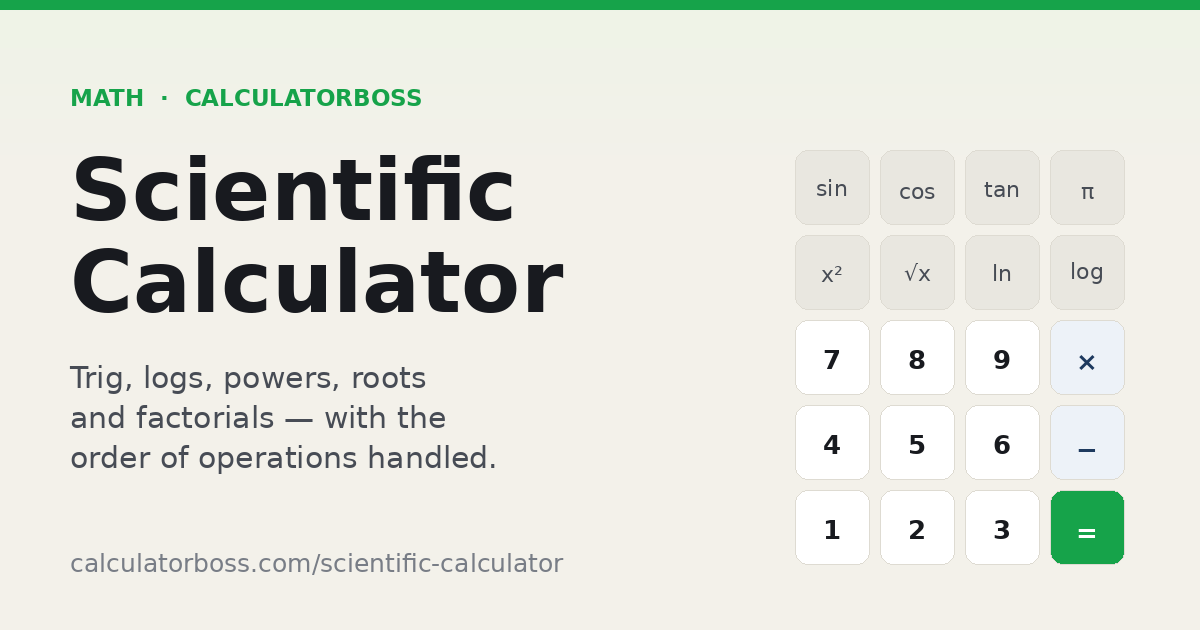
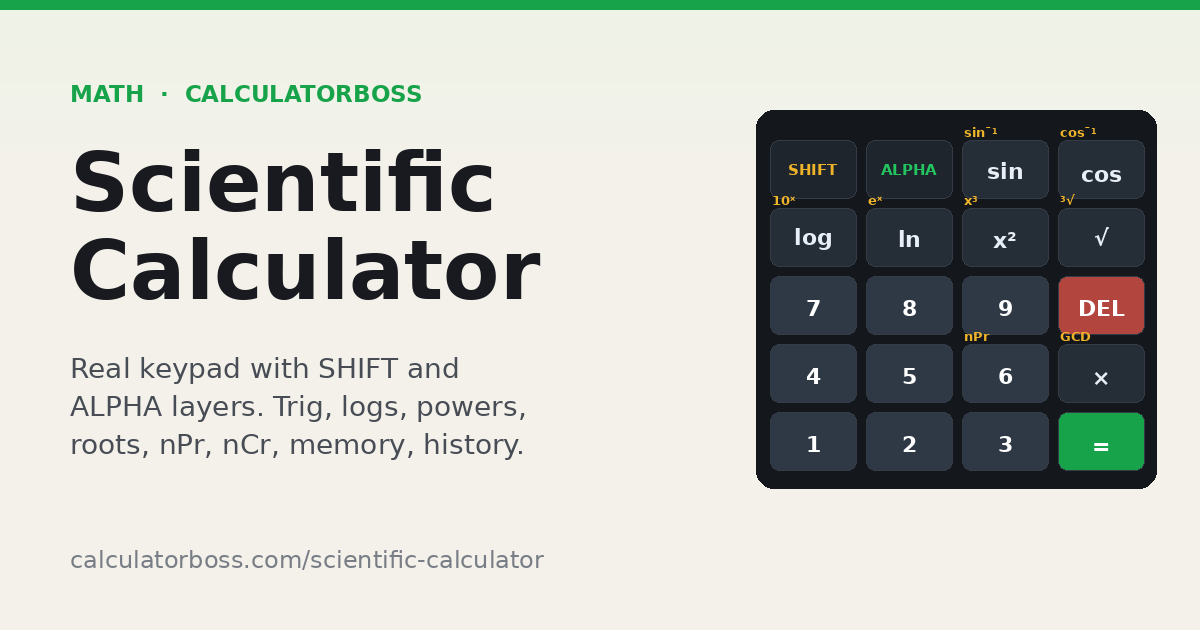
Fix five dead digit keys, reorder the columns, and rework the on-page SEO
The screenshot showed 7, 8, 4, 1, 3 and minus rendered dim -- and they were
genuinely dead. Those keys carry an unbuilt SHIFT function, and marking the key
as unavailable blocked its printed function too, so you could not type five
digits or subtract. Availability is now split: the printed function and the
layer function are refused independently.

Every suite passed while this was broken, because they all call press() and the
bug was in hit(), one layer above. The new human-use suite enters where the user
does and asserts every digit types.

Columns reordered as asked: calculator, variables, history. Two stale grid-area
names left in the media queries were caught by the grid checker.

Human-use pass: 47 whole tasks typed key by key with answers derived
independently -- homework problems, memory as a running total, storing a
constant, fixing a digit mid-line, and six cases that must refuse rather than
lie.

SEO: keyword research against the ranking set, new title and description around
the head term plus the no-download modifier, 14 researched keywords, a new
audience section, and two FAQs on real queries. Nothing claimed that is not
built -- fractions are the biggest term in this niche and the page still says
it does not have them.

diff --git a/scientific-calculator/index.html b/scientific-calculator/index.html
@@ -7,7 +7,7 @@
 
   gtag('config', 'G-6S04GMEMEJ');
 </script>
-<meta charSet="utf-8"/><link rel="preconnect" href="/" crossorigin=""/><meta name="viewport" content="width=device-width, initial-scale=1"/><title>Scientific Calculator | SHIFT Keys, Trig, Log and Roots</title><meta name="description" content="Free scientific calculator with a real keypad: SHIFT and ALPHA layers, a movable cursor, trig, logs, powers, roots, factorials, memory and timed history."/><meta name="author" content="CalculatorBoss"/><meta name="keywords" content="scientific calculator,scientific calculator online,free scientific calculator,trig calculator,sin cos tan calculator,log and ln calculator,factorial calculator,deg rad calculator,online calculator with parentheses"/><meta name="creator" content="CalculatorBoss"/><meta name="publisher" content="CalculatorBoss"/><meta name="robots" content="index, follow"/><meta name="googlebot" content="index, follow, max-video-preview:-1, max-image-preview:large, max-snippet:-1"/><link rel="canonical" href="https://calculatorboss.com/scientific-calculator/"/><meta property="og:title" content="Scientific Calculator | SHIFT Keys, Trig, Log and Roots"/><meta property="og:description" content="Free scientific calculator with a real keypad: SHIFT and ALPHA layers, a movable cursor, trig, logs, powers, roots, factorials, memory and timed history."/><meta property="og:url" content="https://calculatorboss.com/scientific-calculator/"/><meta property="og:image" content="https://calculatorboss.com/og/scientific-calculator.png"/><meta property="og:image:width" content="1200"/><meta property="og:image:height" content="630"/><meta name="twitter:card" content="summary_large_image"/><meta name="twitter:image" content="https://calculatorboss.com/og/scientific-calculator.png"/><meta name="twitter:title" content="Scientific Calculator | SHIFT Keys, Trig, Log and Roots"/><meta name="twitter:description" content="Free scientific calculator with a real keypad: SHIFT and ALPHA layers, a movable cursor, trig, logs, powers, roots, factorials, memory and timed history."/><link rel="icon" href="/favicon.svg" type="image/svg+xml"><link rel="icon" href="/favicon.ico" sizes="any"><link rel="apple-touch-icon" href="/favicon-180.png"><link rel="stylesheet" href="/_next/static/chunks/27gnqssi3_kmiv2.css" data-precedence="next"/><link rel="preload" as="script" fetchPriority="low" href="/_next/static/chunks/36m08sdd6fi_4.js"/><link rel="preconnect" href="https://fonts.gstatic.com" crossorigin>
+<meta charSet="utf-8"/><link rel="preconnect" href="/" crossorigin=""/><meta name="viewport" content="width=device-width, initial-scale=1"/><title>Scientific Calculator Online | Free, No Download, Full Keypad</title><meta name="description" content="Free online scientific calculator with a real SHIFT and ALPHA keypad: trig, logs, powers, roots, nPr, nCr, memory and history. No download, no signup."/><meta name="author" content="CalculatorBoss"/><meta name="keywords" content="scientific calculator,scientific calculator online,free scientific calculator,online scientific calculator no download,sin cos tan calculator,log and ln calculator,npr ncr calculator,scientific calculator with history,deg rad calculator,scientific calculator with memory,factorial calculator,gcd lcm calculator,scientific calculator for students,order of operations calculator"/><meta name="creator" content="CalculatorBoss"/><meta name="publisher" content="CalculatorBoss"/><meta name="robots" content="index, follow"/><meta name="googlebot" content="index, follow, max-video-preview:-1, max-image-preview:large, max-snippet:-1"/><link rel="canonical" href="https://calculatorboss.com/scientific-calculator/"/><meta property="og:title" content="Scientific Calculator Online | Free, No Download, Full Keypad"/><meta property="og:description" content="Free online scientific calculator with a real SHIFT and ALPHA keypad: trig, logs, powers, roots, nPr, nCr, memory and history. No download, no signup."/><meta property="og:url" content="https://calculatorboss.com/scientific-calculator/"/><meta property="og:image" content="https://calculatorboss.com/og/scientific-calculator.png"/><meta property="og:image:width" content="1200"/><meta property="og:image:height" content="630"/><meta name="twitter:card" content="summary_large_image"/><meta name="twitter:image" content="https://calculatorboss.com/og/scientific-calculator.png"/><meta name="twitter:title" content="Scientific Calculator Online | Free, No Download, Full Keypad"/><meta name="twitter:description" content="Free online scientific calculator with a real SHIFT and ALPHA keypad: trig, logs, powers, roots, nPr, nCr, memory and history. No download, no signup."/><link rel="icon" href="/favicon.svg" type="image/svg+xml"><link rel="icon" href="/favicon.ico" sizes="any"><link rel="apple-touch-icon" href="/favicon-180.png"><link rel="stylesheet" href="/_next/static/chunks/27gnqssi3_kmiv2.css" data-precedence="next"/><link rel="preload" as="script" fetchPriority="low" href="/_next/static/chunks/36m08sdd6fi_4.js"/><link rel="preconnect" href="https://fonts.gstatic.com" crossorigin>
 <link href="https://fonts.googleapis.com/css2?family=IBM+Plex+Sans:wght@400;500;600;700&family=IBM+Plex+Mono:wght@400;500;600;700&display=swap" rel="stylesheet">
 <style>
   /* ============================================================
@@ -351,15 +351,15 @@
   </script>
 </header><main class="flex-1" role="main"><div class="px-4 sm:px-6 py-8 sm:py-10 mx-auto" style="max-width:1160px">
 <script type="application/ld+json">{"@context":"https://schema.org","@type":"WebApplication","name":"Scientific Calculator","url":"https://calculatorboss.com/scientific-calculator/","applicationCategory":"UtilitiesApplication","operatingSystem":"Any","description":"A free online scientific calculator with a hardware-style keypad, SHIFT and ALPHA function layers, trigonometry, logarithms, powers, roots, factorials, memory and calculation history.","offers":{"@type":"Offer","price":"0","priceCurrency":"USD"}}</script>
-<script type="application/ld+json">{"@context":"https://schema.org","@type":"FAQPage","mainEntity":[{"@type":"Question","name":"What do the SHIFT and ALPHA keys do?","acceptedAnswer":{"@type":"Answer","text":"They are layer keys, exactly as on a physical scientific calculator. Every key carries a small yellow label above it and some carry a green one too. Press SHIFT and the next key you touch runs its yellow function, so SHIFT then sin gives sin inverse. Press ALPHA and the next key runs its green function. Both cancel after a single press, and pressing the same layer key again turns it off."}},{"@type":"Question","name":"Why does this calculator give 14 for 2 + 3 x 4?","acceptedAnswer":{"@type":"Answer","text":"Because multiplication is resolved before addition. The calculator reads the whole expression before answering, so 3 x 4 is settled first and 2 is added to the 12. A basic four-function calculator answers each key press in turn and returns 20 instead. If you want the addition first, wrap it in brackets."}},{"@type":"Question","name":"How do I edit a number in the middle of a long expression?","acceptedAnswer":{"@type":"Answer","text":"Use the left and right arrow keys to walk the cursor through what you have typed, then type or delete at that point. DEL removes the entry immediately to the left of the cursor rather than clearing the line, so a single mistyped digit in a long calculation costs one keystroke to fix instead of starting again."}},{"@type":"Question","name":"What is the difference between DEG and RAD mode?","acceptedAnswer":{"@type":"Answer","text":"They are two units for the same angle. A full turn is 360 degrees or 2 pi radians, so the number 30 means a thirty-degree angle in DEG and a much larger angle in RAD. sin 30 returns 0.5 in DEG and -0.988031624093 in RAD. The current mode is shown in the status strip above the keypad, and it is the first thing to check whenever a trig answer looks wrong."}},{"@type":"Question","name":"What is PreAns?","acceptedAnswer":{"@type":"Answer","text":"Ans holds your most recent result and PreAns holds the one before it, so you can reach back two steps without writing anything down. Both are listed in the Variable panel beside the keypad, and PreAns sits on the yellow layer of the Ans key."}},{"@type":"Question","name":"Can I use my keyboard instead of the on-screen keys?","acceptedAnswer":{"@type":"Answer","text":"Yes. Digits, a decimal point, plus, minus, asterisk, slash, caret and brackets type straight in. Enter evaluates, Backspace deletes at the cursor, Escape clears the line, the arrow keys move the cursor, and Shift toggles the yellow layer. The full list is in the keyboard reference under the calculator."}}]}</script>
+<script type="application/ld+json">{"@context":"https://schema.org","@type":"FAQPage","mainEntity":[{"@type":"Question","name":"What do the SHIFT and ALPHA keys do?","acceptedAnswer":{"@type":"Answer","text":"They are layer keys, exactly as on a physical scientific calculator. Every key carries a small yellow label above it and some carry a green one too. Press SHIFT and the next key you touch runs its yellow function, so SHIFT then sin gives sin inverse. Press ALPHA and the next key runs its green function. Both cancel after a single press, and pressing the same layer key again turns it off."}},{"@type":"Question","name":"Why does this calculator give 14 for 2 + 3 x 4?","acceptedAnswer":{"@type":"Answer","text":"Because multiplication is resolved before addition. The calculator reads the whole expression before answering, so 3 x 4 is settled first and 2 is added to the 12. A basic four-function calculator answers each key press in turn and returns 20 instead. If you want the addition first, wrap it in brackets."}},{"@type":"Question","name":"How do I edit a number in the middle of a long expression?","acceptedAnswer":{"@type":"Answer","text":"Use the left and right arrow keys to walk the cursor through what you have typed, then type or delete at that point. DEL removes the entry immediately to the left of the cursor rather than clearing the line, so a single mistyped digit in a long calculation costs one keystroke to fix instead of starting again."}},{"@type":"Question","name":"What is the difference between DEG and RAD mode?","acceptedAnswer":{"@type":"Answer","text":"They are two units for the same angle. A full turn is 360 degrees or 2 pi radians, so the number 30 means a thirty-degree angle in DEG and a much larger angle in RAD. sin 30 returns 0.5 in DEG and -0.988031624093 in RAD. The current mode is shown in the status strip above the keypad, and it is the first thing to check whenever a trig answer looks wrong."}},{"@type":"Question","name":"What is PreAns?","acceptedAnswer":{"@type":"Answer","text":"Ans holds your most recent result and PreAns holds the one before it, so you can reach back two steps without writing anything down. Both are listed in the Variable panel beside the keypad, and PreAns sits on the yellow layer of the Ans key."}},{"@type":"Question","name":"Can I use my keyboard instead of the on-screen keys?","acceptedAnswer":{"@type":"Answer","text":"Yes. Digits, a decimal point, plus, minus, asterisk, slash, caret and brackets type straight in. Enter evaluates, Backspace deletes at the cursor, Escape clears the line, the arrow keys move the cursor, and Shift toggles the yellow layer. The full list is in the keyboard reference under the calculator."}},{"@type":"Question","name":"Is this the same as a Casio fx-991 or a TI-30X?","acceptedAnswer":{"@type":"Answer","text":"It is not an emulator of any particular model and it is not made by, or connected to, any calculator manufacturer. What it shares is the layout convention those machines use: a yellow SHIFT layer, a green ALPHA layer, and keys in broadly the familiar places. That is enough for the keystroke habits to carry over, which is the practical reason to use it for revision."}},{"@type":"Question","name":"Can I use this in an exam?","acceptedAnswer":{"@type":"Answer","text":"No, and no browser-based calculator is. Exam boards require an approved non-programmable physical device and prohibit anything with internet access. Use this for homework and for practising the key sequences, then take your permitted calculator into the exam room."}}]}</script>
 <style>
 .sci-crumb{display:flex;align-items:center;gap:8px;font-size:12.5px;color:var(--muted);margin:0 0 10px;flex-wrap:wrap}
 .sci-crumb a{color:var(--muted);transition:.2s}.sci-crumb a:hover{color:var(--ink)}
 .sci-crumb .sep{color:var(--ink-faint)}.sci-crumb .cur{color:var(--ink-soft);font-weight:500}
 
 /* ---- layout ---- */
-.sci-grid{display:grid;gap:16px;grid-template-columns:minmax(0,1fr) 392px 290px;grid-template-areas:"panel calc side" "bottomgrid bottomgrid bottomgrid";align-items:stretch;margin-top:6px}
-.sci-panel{grid-area:panel}.sci-unit{grid-area:calc}.sci-side{grid-area:side}
+.sci-grid{display:grid;gap:16px;grid-template-columns:392px minmax(0,1fr) minmax(0,1.15fr);grid-template-areas:"calc vars hist" "bottomgrid bottomgrid bottomgrid";align-items:stretch;margin-top:6px}
+.sci-unit{grid-area:calc}.sci-vars{grid-area:vars}.sci-hist{grid-area:hist}
 .sci-bottom{grid-area:bottomgrid;display:grid;grid-template-columns:repeat(2,minmax(0,1fr));gap:16px;scroll-margin-top:88px}
 
 /* ---- the calculator body ---- */
@@ -414,6 +414,7 @@
 .sci-eq{background:#16A34A;border-color:#16A34A;color:#fff;font-size:18px}
 .sci-eq:hover{background:#128A3D;border-color:#128A3D}
 .sci-k-soon{opacity:.42}
+.sci-k[data-soon-s]+.sci-lbl .s,.sci-kw:has(.sci-k[data-soon-s]) .sci-lbl .s{opacity:.45}
 .sci-k-soon:hover{background:#252D37}
 /* D-pad */
 .sci-dpadwrap{display:flex;align-items:center;justify-content:center}
@@ -426,6 +427,7 @@
 
 /* ---- side panels ---- */
 .sci-card{background:var(--surface);border:1px solid var(--border);border-radius:16px;overflow:hidden;display:flex;flex-direction:column;min-height:0}
+.sci-phead{padding:12px 16px;font-size:13px;font-weight:700;color:var(--ink);background:var(--surface-sunken);border-bottom:1px solid var(--border);flex-shrink:0}
 .sci-tabs{display:flex;border-bottom:1px solid var(--border);background:var(--surface-sunken);flex-shrink:0}
 .sci-tab{flex:1;border:none;background:transparent;padding:11px 8px;font-size:13px;font-weight:600;color:var(--muted);cursor:pointer;border-bottom:2px solid transparent;transition:.16s}
 .sci-tab[aria-selected="true"]{color:var(--ink);border-bottom-color:#16A34A;background:var(--surface)}
@@ -463,6 +465,7 @@
 .sci-rlist a{display:block;padding:10px 8px;color:var(--ink-soft);font-size:13px;text-decoration:none;transition:.16s;border-radius:8px}
 .sci-rlist a:hover{background:var(--surface-sunken);color:#128A3D}
 .sci-bcard{background:var(--surface);border:1px solid var(--border);border-radius:16px;overflow:hidden}
+.sci-bbody{padding:4px 12px 10px}
 .sci-bhead{background:var(--surface-sunken);border-bottom:1px solid var(--border);padding:11px 16px;font-size:13px;font-weight:700;color:var(--ink)}
 .sci-btable{width:100%;border-collapse:collapse;font-size:13px}
 .sci-btable th,.sci-btable td{padding:8px 16px;text-align:left;border-bottom:1px solid var(--border-fine);vertical-align:top}
@@ -489,39 +492,18 @@
 .sci-note p{margin:0;font-size:14px}
 .sci-disc{font-size:12.5px;line-height:1.7;color:var(--muted);border-top:1px solid var(--border-fine);margin-top:34px;padding-top:16px}
 
-@media(max-width:1040px){.sci-grid{grid-template-columns:minmax(0,1fr) 380px;grid-template-areas:"panel calc" "side side" "bottomgrid bottomgrid"}}
-@media(max-width:800px){.sci-grid{grid-template-columns:1fr;grid-template-areas:"calc" "panel" "side" "bottomgrid";align-items:start}.sci-pbody{max-height:420px}.sci-padbot{flex:none}.sci-padbot .sci-k{height:auto}.sci-bottom{grid-template-columns:1fr}.sci-body{padding:11px}.sci-padtop,.sci-padbot{gap:4px}.sci-k{min-height:40px;font-size:12px}.sci-num{font-size:15px}.sci-lcd{height:210px}.sci-lbl{height:11px;font-size:8px}}
+@media(max-width:1040px){.sci-grid{grid-template-columns:380px minmax(0,1fr);grid-template-areas:"calc vars" "hist hist" "bottomgrid bottomgrid"}}
+@media(max-width:800px){.sci-grid{grid-template-columns:1fr;grid-template-areas:"calc" "hist" "vars" "bottomgrid";align-items:start}.sci-pbody{max-height:420px}.sci-padbot{flex:none}.sci-padbot .sci-k{height:auto}.sci-bottom{grid-template-columns:1fr}.sci-body{padding:11px}.sci-padtop,.sci-padbot{gap:4px}.sci-k{min-height:40px;font-size:12px}.sci-num{font-size:15px}.sci-lcd{height:210px}.sci-lbl{height:11px;font-size:8px}}
 </style>
 
 <nav class="sci-crumb" aria-label="Breadcrumb"><a href="/">Home</a><span class="sep">/</span><a href="/all-calculators/#mat">Math</a><span class="sep">/</span><span class="cur">Scientific Calculator</span></nav>
 
 <h1 class="font-display font-bold text-3xl sm:text-4xl tracking-tight text-ink mb-3">Scientific Calculator</h1>
-<p class="text-ink-soft text-lg max-w-2xl mb-5">A hardware-style keypad with SHIFT and ALPHA layers, a cursor you can move through the line, and every answer kept in a history you can tap back into.</p>
+<p class="text-ink-soft text-lg max-w-2xl mb-5">A free online scientific calculator with a real keypad &mdash; SHIFT and ALPHA layers, trigonometry, logarithms, powers, roots, nPr and nCr, memory and a timed history. Nothing to download, no signup.</p>
 
 <div class="sci-grid">
 
-  <!-- ============ left: history / variables ============ -->
-  <div class="sci-panel sci-card">
-    <div class="sci-tabs" role="tablist">
-      <button type="button" class="sci-tab" id="sci-tabH" role="tab" aria-selected="true" aria-controls="sci-paneH">History</button>
-      <button type="button" class="sci-tab" id="sci-tabV" role="tab" aria-selected="false" aria-controls="sci-paneV">Variable</button>
-    </div>
-    <div class="sci-pbody" id="sci-paneH" role="tabpanel" aria-labelledby="sci-tabH">
-      <p class="sci-pempty">Nothing calculated yet.<br>Every answer lands here with the time, and tapping a line puts it back on the screen.</p>
-    </div>
-    <div class="sci-pbody" id="sci-paneV" role="tabpanel" aria-labelledby="sci-tabV" hidden>
-      <div class="sci-vrow"><span class="sci-vn">Ans</span><span class="sci-vv empty" id="sci-vAns">not set</span></div>
-      <div class="sci-vrow"><span class="sci-vn">PreAns</span><span class="sci-vv empty" id="sci-vPre">not set</span></div>
-      <div class="sci-vrow"><span class="sci-vn">M</span><span class="sci-vv empty" id="sci-vM">0</span></div>
-      <div id="sci-varbox"></div>
-    </div>
-    <div class="sci-pfoot">
-      <button type="button" class="sci-pbtn" id="sci-clearh" disabled>Clear history</button>
-      <button type="button" class="sci-pbtn" id="sci-pdfbtn" disabled>Save as PDF</button>
-    </div>
-  </div>
-
-  <!-- ============ centre: the calculator ============ -->
+  <!-- ============ left: the calculator ============ -->
   <div class="sci-unit sci-card">
     <div class="sci-body">
       <div class="sci-lcd" id="sci-lcd">
@@ -573,21 +555,21 @@
       <div class="sci-kw"><span class="sci-lbl"><span class="s">M−</span><span class="a">M</span></span><button type="button" class="sci-k" data-k="M+" data-s="M-" data-a="VM">M+</button></div>
       </div>
       <div class="sci-padbot" id="sci-padbot">
-      <div class="sci-kw"><span class="sci-lbl"><span class="s">CONST</span><span class="a"></span></span><button type="button" class="sci-k sci-num sci-k-soon" data-k="7" data-soon="5">7</button></div>
-      <div class="sci-kw"><span class="sci-lbl"><span class="s">CONV</span><span class="a"></span></span><button type="button" class="sci-k sci-num sci-k-soon" data-k="8" data-soon="5">8</button></div>
+      <div class="sci-kw"><span class="sci-lbl"><span class="s">CONST</span><span class="a"></span></span><button type="button" class="sci-k sci-num" data-k="7" data-soon-s="5">7</button></div>
+      <div class="sci-kw"><span class="sci-lbl"><span class="s">CONV</span><span class="a"></span></span><button type="button" class="sci-k sci-num" data-k="8" data-soon-s="5">8</button></div>
       <div class="sci-kw"><span class="sci-lbl"><span class="s"></span><span class="a"></span></span><button type="button" class="sci-k sci-num" data-k="9">9</button></div>
       <div class="sci-kw"><span class="sci-lbl"><span class="s"></span><span class="a"></span></span><button type="button" class="sci-k sci-del" data-k="DEL">DEL</button></div>
       <div class="sci-kw"><span class="sci-lbl"><span class="s"></span><span class="a"></span></span><button type="button" class="sci-k sci-ac" data-k="AC">AC</button></div>
-      <div class="sci-kw"><span class="sci-lbl"><span class="s">MATRIX</span><span class="a"></span></span><button type="button" class="sci-k sci-num sci-k-soon" data-k="4" data-soon="4">4</button></div>
+      <div class="sci-kw"><span class="sci-lbl"><span class="s">MATRIX</span><span class="a"></span></span><button type="button" class="sci-k sci-num" data-k="4" data-soon-s="4">4</button></div>
       <div class="sci-kw"><span class="sci-lbl"><span class="s"></span><span class="a"></span></span><button type="button" class="sci-k sci-num" data-k="5">5</button></div>
       <div class="sci-kw"><span class="sci-lbl"><span class="s">nPr</span><span class="a"></span></span><button type="button" class="sci-k sci-num" data-k="6" data-s="nPr">6</button></div>
       <div class="sci-kw"><span class="sci-lbl"><span class="s">GCD</span><span class="a"></span></span><button type="button" class="sci-k" data-k="*" data-s="gcd">×</button></div>
       <div class="sci-kw"><span class="sci-lbl"><span class="s">nCr</span><span class="a">LCM</span></span><button type="button" class="sci-k" data-k="/" data-s="nCr" data-a="lcm">÷</button></div>
-      <div class="sci-kw"><span class="sci-lbl"><span class="s">CMPLX</span><span class="a"></span></span><button type="button" class="sci-k sci-num sci-k-soon" data-k="1" data-soon="4">1</button></div>
+      <div class="sci-kw"><span class="sci-lbl"><span class="s">CMPLX</span><span class="a"></span></span><button type="button" class="sci-k sci-num" data-k="1" data-soon-s="4">1</button></div>
       <div class="sci-kw"><span class="sci-lbl"><span class="s"></span><span class="a"></span></span><button type="button" class="sci-k sci-num" data-k="2">2</button></div>
-      <div class="sci-kw"><span class="sci-lbl"><span class="s">Pol</span><span class="a"></span></span><button type="button" class="sci-k sci-num sci-k-soon" data-k="3" data-soon="4">3</button></div>
+      <div class="sci-kw"><span class="sci-lbl"><span class="s">Pol</span><span class="a"></span></span><button type="button" class="sci-k sci-num" data-k="3" data-soon-s="4">3</button></div>
       <div class="sci-kw"><span class="sci-lbl"><span class="s">mod</span><span class="a"></span></span><button type="button" class="sci-k" data-k="+" data-s="mod">+</button></div>
-      <div class="sci-kw"><span class="sci-lbl"><span class="s">Rec</span><span class="a"></span></span><button type="button" class="sci-k sci-k-soon" data-k="-" data-soon="4">−</button></div>
+      <div class="sci-kw"><span class="sci-lbl"><span class="s">Rec</span><span class="a"></span></span><button type="button" class="sci-k" data-k="-" data-soon-s="4">−</button></div>
       <div class="sci-kw"><span class="sci-lbl"><span class="s">Ran#</span><span class="a"></span></span><button type="button" class="sci-k sci-num" data-k="0" data-s="RND">0</button></div>
       <div class="sci-kw"><span class="sci-lbl"><span class="s">RanInt</span><span class="a"></span></span><button type="button" class="sci-k sci-num" data-k="." data-s="RANINT">.</button></div>
       <div class="sci-kw"><span class="sci-lbl"><span class="s">π</span><span class="a">e</span></span><button type="button" class="sci-k" data-k="EXP" data-s="PI" data-a="EU">×10<sup>x</sup></button></div>
@@ -599,13 +581,36 @@
   </div>
 
   <!-- ============ right: related ============ -->
-  <div class="sci-side sci-card">
+  <!-- ============ middle: variables ============ -->
+  <div class="sci-vars sci-card">
+    <div class="sci-phead">Variables</div>
+    <div class="sci-pbody" id="sci-paneV">
+      <div class="sci-vrow"><span class="sci-vn">Ans</span><span class="sci-vv empty" id="sci-vAns">not set</span></div>
+      <div class="sci-vrow"><span class="sci-vn">PreAns</span><span class="sci-vv empty" id="sci-vPre">not set</span></div>
+      <div class="sci-vrow"><span class="sci-vn">M</span><span class="sci-vv empty" id="sci-vM">0</span></div>
+      <div id="sci-varbox"></div>
+    </div>
+    <p class="sci-pnote">Press STO then a letter to store the value on screen. <span class="sci-yl">SHIFT</span> then STO recalls it.</p>
+  </div>
+
+  <!-- ============ right: history ============ -->
+  <div class="sci-hist sci-card">
+    <div class="sci-phead">History</div>
+    <div class="sci-pbody" id="sci-paneH"><p class="sci-pempty">Nothing calculated yet.<br>Every answer lands here with the time, and tapping a line puts it back on the screen.</p></div>
+    <div class="sci-pfoot">
+      <button type="button" class="sci-pbtn" id="sci-clearh" disabled>Clear</button>
+      <button type="button" class="sci-pbtn" id="sci-pdfbtn" disabled>Save as PDF</button>
+    </div>
+  </div>
+
+  <div class="sci-bottom" id="sci-bottom">
+  <div class="sci-bcard">
     <div class="sci-tabs" role="tablist">
       <button type="button" class="sci-tab" id="sci-tabK" role="tab" aria-selected="true" aria-controls="sci-paneK">Keys</button>
       <button type="button" class="sci-tab" id="sci-tabR" role="tab" aria-selected="false" aria-controls="sci-paneR">Related</button>
     </div>
 
-    <div class="sci-pbody" id="sci-paneK" role="tabpanel" aria-labelledby="sci-tabK">
+    <div class="sci-bbody" id="sci-paneK" role="tabpanel" aria-labelledby="sci-tabK">
       <p class="sci-ptitle">Yellow captions are the <span class="sci-yl">SHIFT</span> layer, green are <span class="sci-gl">ALPHA</span>. Press the layer key, then the key you want.</p>
       <table class="sci-ktable">
         <tbody>
@@ -633,7 +638,7 @@
       <p class="sci-pnote">Dimmed keys belong to features still being built. Pressing one tells you which stage it arrives in.</p>
     </div>
 
-    <div class="sci-pbody" id="sci-paneR" role="tabpanel" aria-labelledby="sci-tabR" hidden>
+    <div class="sci-bbody" id="sci-paneR" role="tabpanel" aria-labelledby="sci-tabR" hidden>
       <p class="sci-ptitle">Tools that show their working for one operation at a time.</p>
       <ul class="sci-rlist">
         <li><a href="/exponent-calculator/">Exponent Calculator</a></li>
@@ -650,8 +655,6 @@
       </ul>
     </div>
   </div>
-
-  <div class="sci-bottom" id="sci-bottom">
     <div class="sci-bcard">
       <div class="sci-bhead">Keyboard shortcuts</div>
       <table class="sci-btable">
@@ -704,6 +707,7 @@
       <li><a href="#angles">Degrees or radians, and why it matters</a></li>
       <li><a href="#powers">Powers, roots and scientific notation</a></li>
       <li><a href="#reuse">Ans, PreAns, memory and history</a></li>
+      <li><a href="#who">Who this is for, and how it compares to a physical calculator</a></li>
       <li><a href="#mistakes">Mistakes this calculator will not save you from</a></li>
       <li><a href="#limits">What this calculator does not do</a></li>
       <li><a href="#faq">Frequently asked questions</a></li>
@@ -763,6 +767,18 @@
   <h3>History</h3>
   <p>Every completed calculation is listed on the left with its time, newest first. Tap a line and it goes back on the display so you can change one number and run it again. This is the one for checking homework, because it shows what you actually typed rather than only what it came to. The list lives in the page and clears when you leave.</p>
 
+  <h2 id="who">Who this is for, and how it compares to a physical calculator</h2>
+  <p>The keypad here follows the layout of a standard non-programmable scientific calculator &mdash; the Casio fx-991 family, the TI-30X and their equivalents &mdash; because that is what most people already have in a drawer or a school bag. Same layer keys, same broad key positions, same two-press habit for a yellow function. Practising here transfers to the device you actually sit an exam with.</p>
+  <p>It suits a few groups in particular:</p>
+  <ul>
+    <li><strong>Students</strong> working through algebra, trigonometry, physics or chemistry homework, who want the answer and the working visible at once.</li>
+    <li><strong>Anyone revising</strong> for a test where a non-programmable calculator is allowed, who wants to build the key habits before the day.</li>
+    <li><strong>Engineers, lab and trades work</strong> &mdash; unit-heavy arithmetic, scientific notation, roots and logs, without hunting for the physical device.</li>
+    <li><strong>Teachers</strong> demonstrating a keystroke sequence on a screen the whole room can see.</li>
+  </ul>
+  <div class="sci-note"><p><strong>One honest caveat about exams.</strong> An online calculator is for practice and homework, not for the exam room. Almost every board requires an approved physical device and bans anything with a browser. Use this to learn the keys; take the permitted calculator to the test.</p></div>
+  <p>Against a physical unit this has three real advantages &mdash; a cursor you can walk back into a long line, a history that keeps what you typed rather than only the answer, and nothing to run out of battery. It gives up the things a browser cannot do: it is not exam-legal, and it does not work offline.</p>
+
   <h2 id="mistakes">Mistakes this calculator will not save you from</h2>
   <p>A calculator answers the question you typed, which is not always the question you meant.</p>
   <ul>
@@ -799,6 +815,11 @@
   <h3>Can I use my keyboard instead of the on-screen keys?</h3>
   <p>Yes. Digits, a decimal point, plus, minus, asterisk, slash, caret and brackets type straight in. Enter evaluates, Backspace deletes at the cursor, Escape clears the line, the arrow keys move the cursor, and Shift toggles the yellow layer. The full list is in the keyboard reference under the calculator.</p>
 
+  <h3>Is this the same as a Casio fx-991 or a TI-30X?</h3>
+  <p>It is not an emulator of any particular model and it is not made by, or connected to, any calculator manufacturer. What it shares is the layout convention those machines use: a yellow SHIFT layer, a green ALPHA layer, and keys in broadly the familiar places. That is enough for the keystroke habits to carry over, which is the practical reason to use it for revision.</p>
+  <h3>Can I use this in an exam?</h3>
+  <p>No, and no browser-based calculator is. Exam boards require an approved non-programmable physical device and prohibit anything with internet access. Use this for homework and for practising the key sequences, then take your permitted calculator into the exam room.</p>
+
   <p class="sci-disc">This calculator is provided for education and general reference. Results are computed in standard double-precision floating point and are accurate to roughly twelve significant digits, which is ample for schoolwork and most professional use but is not a substitute for an arbitrary-precision or symbolic system where exactness is required. Always check the angle unit before relying on a trigonometric result. The keypad follows the layered-key convention common to scientific calculators generally; CalculatorBoss is an independent tool and is not affiliated with, endorsed by or sponsored by Casio, Texas Instruments, Hewlett-Packard or any other calculator manufacturer, and no proprietary firmware from any such device is used. Learn more <a href="/about/">about how we build and check these tools</a>, or read our <a href="/privacy-policy/">privacy policy</a>.</p>
 </article>
 
@@ -813,7 +834,6 @@ var TAPE=document.getElementById('sci-tape'),
     UNDO=document.getElementById('sci-undo'),REDO=document.getElementById('sci-redo');
 var EXPR=document.getElementById('sci-expr'),OUT=document.getElementById('sci-out'),
     PANE_H=document.getElementById('sci-paneH'),PANE_V=document.getElementById('sci-paneV'),
-    TAB_H=document.getElementById('sci-tabH'),TAB_V=document.getElementById('sci-tabV'),
     I_SH=document.getElementById('sci-iSh'),I_AL=document.getElementById('sci-iAl'),
     I_MODE=document.getElementById('sci-iMode'),I_MEM=document.getElementById('sci-iMem'),
     B_SH=document.getElementById('sci-bSh'),B_AL=document.getElementById('sci-bAl'),
@@ -1067,27 +1087,6 @@ function drawVars(){
   V_M.className='sci-vv'+(Math.abs(mem)<1e-15?' empty':'');
   I_MEM.className='sci-ind mem'+(Math.abs(mem)>1e-15?' act':'');
 }
-function selTab(which){
-  var isH=(which==='H');
-  TAB_H.setAttribute('aria-selected',isH?'true':'false');
-  TAB_V.setAttribute('aria-selected',isH?'false':'true');
-  PANE_H.hidden=!isH;PANE_V.hidden=isH;
-}
-TAB_H.addEventListener('click',function(){selTab('H');});
-TAB_V.addEventListener('click',function(){selTab('V');});
-/* right-hand panel: Keys / Related */
-var TAB_K=document.getElementById('sci-tabK'),TAB_R=document.getElementById('sci-tabR'),
-    PANE_K=document.getElementById('sci-paneK'),PANE_R=document.getElementById('sci-paneR');
-function selRight(which){
-  var isK=(which==='K');
-  TAB_K.setAttribute('aria-selected',isK?'true':'false');
-  TAB_R.setAttribute('aria-selected',isK?'false':'true');
-  PANE_K.hidden=!isK;PANE_R.hidden=isK;
-}
-if(TAB_K&&TAB_R){
-  TAB_K.addEventListener('click',function(){selRight('K');});
-  TAB_R.addEventListener('click',function(){selRight('R');});
-}
 PANE_H.addEventListener('click',function(ev){
   var b=ev.target.closest?ev.target.closest('.sci-hrow'):null;
   if(!b)return;
@@ -1283,13 +1282,14 @@ function flashHint(msg){
   hintTimer=setTimeout(function(){refresh();},1700);
 }
 function hit(btn){
-  var soon=btn.getAttribute('data-soon');
+  var soonPrimary=btn.getAttribute('data-soon');     /* the printed function is unbuilt */
+  var soonShift=btn.getAttribute('data-soon-s');     /* only the yellow function is unbuilt */
   var k=btn.getAttribute('data-k');
   var usedLayer=false;
   if(shift&&btn.getAttribute('data-s')){k=btn.getAttribute('data-s');usedLayer=true;}
   else if(alpha&&btn.getAttribute('data-a')){k=btn.getAttribute('data-a');usedLayer=true;}
-  /* a key whose PRIMARY function is not built yet says so rather than doing nothing */
-  if(soon&&!usedLayer){setLayer(false,false);flashHint('This key arrives in phase '+soon);return;}
+  if(usedLayer&&soonShift){setLayer(false,false);flashHint('That layer function arrives in phase '+soonShift);return;}
+  if(!usedLayer&&soonPrimary){setLayer(false,false);flashHint('This key arrives in phase '+soonPrimary);return;}
   press(k);
 }
 function padClick(ev){

diff --git a/PROGRESS.md b/PROGRESS.md
@@ -10802,3 +10802,96 @@ byte-identical, everything after `</main>` byte-identical, no broken links.
 
 Still not rendered. Equal-height flex columns are exactly the kind of thing that looks right in
 the CSS and wrong on screen.
+
+## Scientific Calculator — a dead-key bug, the layout the owner wanted, and an SEO pass (Aug 13, 2026)
+
+### Five digit keys did not work, and the screenshot showed it
+
+Owner sent a screenshot and asked for a human-user check. Before running one, the picture itself
+gave it away: **7, 8, 4, 1 and 3 were rendered dim, and so was the minus key.**
+
+Cause: those keys carry an unbuilt *SHIFT* function — CONST, CONV, MATRIX, CMPLX, Pol, Rec — so
+the generator marked the whole key `data-soon`, and `hit()` refused the press outright:
+
+```js
+if(soon && !usedLayer){ flashHint('This key arrives in phase '+soon); return; }
+```
+
+**The printed function was collateral damage.** You could not type 7, 8, 4, 1, 3 or subtract.
+The calculator was, for the second time in its life, partly non-functional in production —
+and again the giveaway was visual, not something any assertion I had written was looking for.
+
+Fixed by splitting availability in two: `data-soon` means *the printed function* is unbuilt and
+still refuses; `data-soon-s` means *only the yellow layer function* is unbuilt and refuses only
+when SHIFT was actually used. Six keys moved to the second form and are no longer dimmed; only
+the yellow caption is greyed.
+
+**The lesson is uncomfortable and worth writing down.** Every suite passed while five digits
+were dead, because every suite calls `press()` directly and the bug lived in `hit()`, the layer
+that sits between the DOM and `press()`. A test that enters through a lower door than the user
+does cannot see a locked front door. The new human-use suite now walks in through `hit()`'s
+data attributes and asserts every digit types.
+
+### Layout, as asked: calculator | variables | history
+
+Owner's instruction was explicit, and it is better than what was there: the calculator moves to
+the **left**, variables sit in the **middle**, history on the **right**, three matching cards.
+Keys and Related moved down into the bottom row where reference material belongs.
+
+Two grid-area names (`panel`, `side`) survived in the media queries after the columns were
+renamed — exactly the failure the guide documents for retirement-calculator, where an area that
+is positioned but never named silently creates implicit tracks. Caught by the grid checker,
+which is the whole reason it exists. All three breakpoints now name all four areas.
+
+### Human-use pass, 47 whole tasks
+
+Not assertions against internal functions — whole jobs typed key by key with the answer worked
+out independently first: area of a circle, hypotenuse, a quadratic root, compound interest,
+an average of four marks, 10 choose 3, 48 GCD 18, Avogadro via ×10ˣ, the elementary charge with
+a negative exponent, radians mode, `-3²` versus `(-3)²`. Then the workflows: continuing with an
+operator after `=`, Ans plus PreAns, memory as a running total across three separate sums,
+storing 9.81 in A and reusing it, and **fixing a mistyped digit in the middle of a long line**
+rather than retyping. Plus six cases that must refuse rather than lie — and one, `tan 90`, that
+must *not* refuse, because a huge number is the honest answer there. 47/47.
+
+### SEO pass
+
+Keyword research first, per section 4. Ranking set checked: CalcSolver, online-calculator.com,
+scientificcalculatoronline.site, gulfcalculator, Desmos-clone pages, ti84calcul, plus Casio's
+own product pages for how the hardware terms are written.
+
+**Head terms:** scientific calculator, online scientific calculator, free scientific calculator.
+**Long-tail clusters found and targeted:** *no download / no signup* (nearly every competitor
+leads on it), *sin cos tan calculator*, *log and ln*, *nPr nCr*, *GCD LCM*, *factorial*,
+*DEG RAD*, *with history*, *with memory*, *for students / homework / exam practice*,
+*order of operations*, *Casio fx-991 style*.
+
+- Title: **Scientific Calculator Online | Free, No Download, Full Keypad** (61) — head term
+  first, the highest-frequency modifier second, friction removal third.
+- Description 150 chars, leading with the differentiator no competitor has: a real SHIFT/ALPHA
+  keypad.
+- Keywords tag now carries 14 researched terms rather than the site-wide boilerplate it had.
+- Subhead rewritten to carry the long-tail phrasing the H1 cannot, since the H1 stays the bare
+  calculator name per section 3.
+- New H2, **"Who this is for, and how it compares to a physical calculator"**, targeting the
+  student/exam-practice cluster, with an honest caveat box: **an online calculator is not
+  exam-legal anywhere**, and saying so is both true and the kind of thing that earns trust.
+- Two new FAQs on real queries — *"Is this the same as a Casio fx-991 or a TI-30X?"* and
+  *"Can I use this in an exam?"* — added to schema and visible text in the same edit. 8/8 exact.
+- Article 2,523 words, 10 H2s, 12 FAQ entries.
+- **Nothing claimed that is not built.** Fractions are the single biggest long-tail term in this
+  niche and we do not have them yet, so the limits section still says so plainly rather than
+  chasing the keyword.
+
+OG image regenerated to show the layered keypad with yellow SHIFT captions, with an assertion
+that the text block cannot overrun the artwork.
+
+### Verification
+
+**25/25** on the combined SEO and integrity audit. Suites: human-use 47/47, V3 35/35, engine
+77/77, differential sweep 2,355/2,355, Phase-2 helpers 1,724/1,724. Grid areas complete at all
+three breakpoints, zero duplicate base rules, protected style block byte-identical, everything
+after `</main>` byte-identical.
+
+Still no browser. The dead-digit bug is a standing argument that this matters: it was visible in
+a screenshot in about two seconds and invisible to five test suites.
